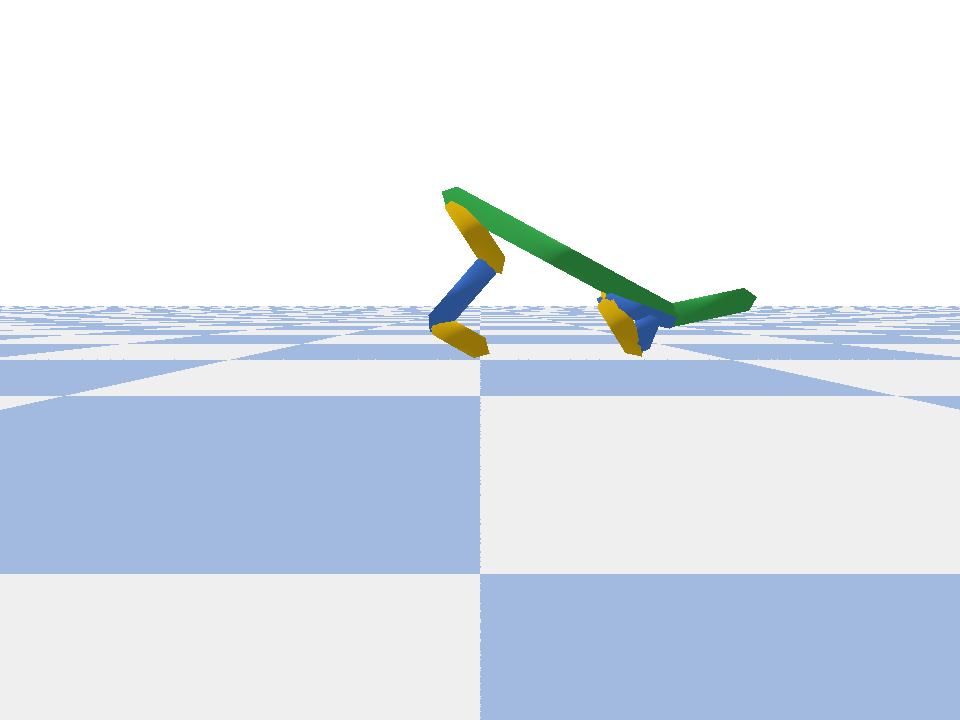
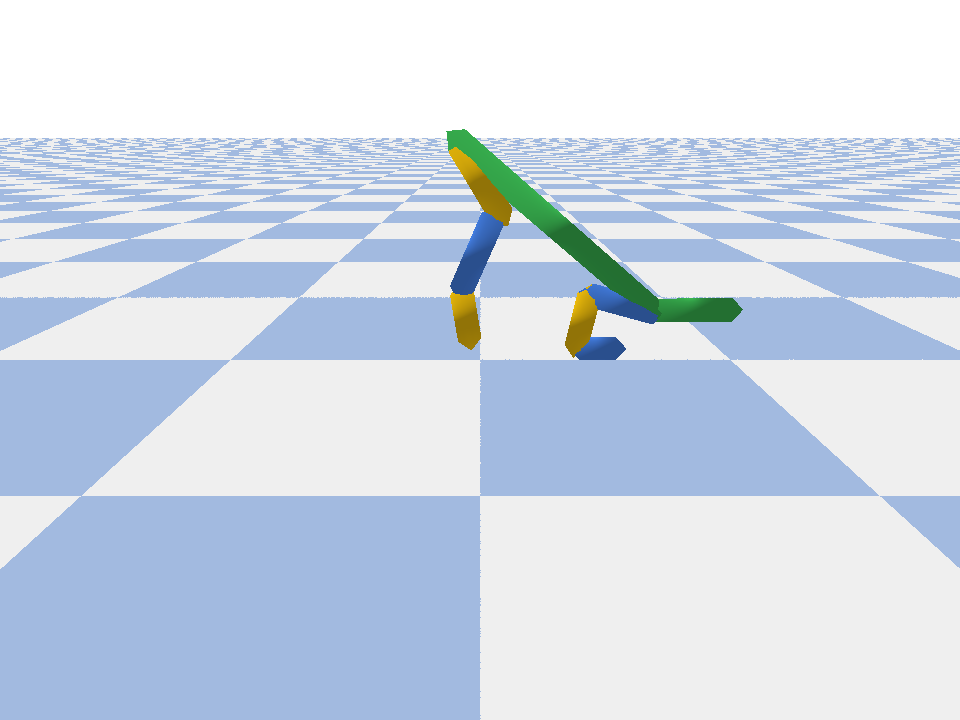
gifs

diff --git a/visualize_state.py b/visualize_state.py
@@ -9,7 +9,7 @@ from mushroom_rl.utils.viewer import ImageViewer
 
 import pygame
 from pygame.locals import *
-
+import imageio
 
 def wait():
     while True:
@@ -30,7 +30,7 @@ def rescale_joint(j, theta_r):
 
 
 def get_image(mdp, scaling, distance, pitch):
-    view_matrix = mdp.env._p.computeViewMatrixFromYawPitchRoll(cameraTargetPosition=[0, 0, 0],
+    view_matrix = mdp.env._p.computeViewMatrixFromYawPitchRoll(cameraTargetPosition=[0, 0, 1.],
                                                                distance=distance,
                                                                yaw=mdp.env._cam_yaw,
                                                                pitch=pitch,
@@ -81,8 +81,10 @@ if __name__ == '__main__':
     #envs = ['HopperBulletEnv-v0', 'Walker2DBulletEnv-v0', 'HalfCheetahBulletEnv-v0', 'AntBulletEnv-v0']
     iteration = 1001
     scaling = 3
-    distance = 2.5
+    # distance = 2.5
+    distance = 3
     pitch = -5
+    # pitch = -20
 
     exp_id = 'final_medium'
     alg_name = 'metricrl'
@@ -90,20 +92,24 @@ if __name__ == '__main__':
     # env_id = 'AntBulletEnv-v0'
     # postfix = 'c10hcovr_expdTruet0.33snone'
     # run_id = 0
+    # cluster_idxs = [5, 4, 6, 2]
 
     # env_id = 'HopperBulletEnv-v0'
     # postfix = 'c10hcovr_expdTruet1.0snone'
     # run_id = 12
+    # cluster_idxs = [0, 9, 4]
 
     env_id = 'HalfCheetahBulletEnv-v0'
-    postfix = 'c20hcovr_expdTruet0.33snone'
-    run_id = 4
+    postfix = 'c10hcovr_expdTruet0.33snone'
+    run_id = 2
+    cluster_idxs = [4, 2, 9, 0]
 
     log_name = os.path.join('Results', exp_id, env_id, alg_name + '_' + postfix)
     print(log_name)
 
     save = True
     save_dir = os.path.join('Results', 'img', env_id)
+    save_dir_gifs = os.path.join(save_dir, 'gifs')
 
     policy_path = os.path.join(log_name, 'net/network-' + str(run_id) + '-' + str(iteration) + '.pth')
     policy_torch = torch.load(policy_path)
@@ -132,12 +138,11 @@ if __name__ == '__main__':
         pygame.image.save(viewer._screen, full_path)
 
     # wait()
-    cluster_idxs = [1, 2, 3, 4, 5, 6]
     # cluster_idxs = [2, 8]
     # cluster_idxs = [8]
     # cluster_idxs = [3]
     # for n, cluster in enumerate(policy_torch.centers.detach().numpy()):
-    for n in cluster_idxs:
+    for clus_order, n in enumerate(cluster_idxs):
         # get Robot object from environment
         cluster = policy_torch.centers[n].detach().numpy()
         obs = env.reset()
@@ -148,26 +153,33 @@ if __name__ == '__main__':
         print(cluster)
 
         set_state(robot, robot_body, cluster)
-
+        obs = robot.calc_state()
         # px = get_image(env, scaling, distance, pitch)
         # viewer.display(px)
-
-        for iterdisp in range(15):
+        gif_length = 5
+        for iterdisp in range(gif_length):
             px = get_image(env, scaling, distance, pitch)
             viewer.display(px)
-            # env.step(policy_torch.means[0].detach().numpy())
             w = policy_torch.get_membership(torch.tensor([obs])).detach().numpy().squeeze()
-            print(w[2], w[8])
+            env.step(policy_torch.means[n].detach().numpy())
+            # print('m3', w[3])
             # if w[n] > .2 or iterdisp < 1:
-            obs, _, _, _ = env.step(policy_torch.get_mean(torch.tensor(obs)).detach().numpy().squeeze())
+            # obs, _, _, _ = env.step(policy_torch.get_mean(torch.tensor(obs)).detach().numpy().squeeze())
             # else:
             #     break
 
 
-        if save:
-            full_path = os.path.join(save_dir, 'cluster-' + str(n) + '.png')
-            os.makedirs(save_dir, exist_ok=True)
-            pygame.image.save(viewer._screen, full_path)
+            if save:
+                full_path = os.path.join(save_dir, 'cluster-' + str(n) + '-' + str(iterdisp) + '.png')
+                os.makedirs(save_dir, exist_ok=True)
+                pygame.image.save(viewer._screen, full_path)
+
+        images = []
+        for iterdisp in range(gif_length):
+            full_path = os.path.join(save_dir, 'cluster-' + str(n) + '-' + str(iterdisp) + '.png')
+            images.append(imageio.imread(full_path))
+        os.makedirs(save_dir_gifs, exist_ok=True)
+        imageio.mimsave(os.path.join(save_dir_gifs, str(clus_order) + '-' + 'cluster-' + str(n) + '.gif'), images)
 
         wrong_state = np.any((cluster - robot.calc_state()) > state_reconstruction_precision)
         print('wrong state? ', wrong_state)

diff --git a/plot_cluster_activation.py b/plot_cluster_activation.py
@@ -29,7 +29,8 @@ class DummyAgent(Agent):
             dist = torch.distributions.MultivariateNormal(mu, scale_tril=chol_sigma)
             a = dist.sample()
 
-            return torch.squeeze(a, dim=0).detach().cpu().numpy()
+            # return torch.squeeze(a, dim=0).detach().cpu().numpy()
+            return torch.squeeze(mu, dim=0).detach().cpu().numpy()
 
     def episode_start(self):
         pass
@@ -189,30 +190,33 @@ if __name__ == '__main__':
     horizon = 1000
     gamma = .99
 
-    env_id = 'AntBulletEnv-v0'
-    log_name = 'Results/final_medium/AntBulletEnv-v0/metricrl_c10hcovr_expdTruet0.33snone'
-    # idxs = [0, 2, 3, 6]
-    idxs = [2, 4, 5, 6]
-    plot_default = False
-    seed = 0
-    ratios = [3.5, 1]
-    n_clusters = 10
+    # env_id = 'AntBulletEnv-v0'
+    # log_name = 'Results/final_medium/AntBulletEnv-v0/metricrl_c10hcovr_expdTruet0.33snone'
+    # n_clusters = 10
+    # # idxs = [k for k in range(n_clusters)]
+    # idxs = [5, 4, 6, 2]
+    # plot_default = True
+    # seed = 0
+    # ratios = [3.5, 1]
 
     # env_id = 'HopperBulletEnv-v0'
     # log_name = 'Results/final_medium/HopperBulletEnv-v0/metricrl_c10hcovr_expdTruet1.0snone'
-    # idxs = [9, 4, 6, 0]
-    # plot_default = False
+    # n_clusters = 10
+    # # idxs = [k for k in range(n_clusters)]
+    # idxs = [0, 9, 4]
+    # plot_default = True
     # seed = 12
     # ratios = [3.5, 1]
-    # n_clusters = 10
 
-    # env_id = 'HalfCheetahBulletEnv-v0'
-    # log_name = 'Results/final_medium/HalfCheetahBulletEnv-v0/metricrl_c20hcovr_expdTruet0.33snone'
-    # idxs = [13, 7, 4, 17]
-    # plot_default = False
-    # seed = 4
-    # ratios = [2, 1]
-    # n_clusters = 20
+    env_id = 'HalfCheetahBulletEnv-v0'
+    log_name = 'Results/final_medium/HalfCheetahBulletEnv-v0/metricrl_c10hcovr_expdTruet0.33snone'
+    idxs = [4, 2, 9, 0]
+    # idxs = [k for k in range(10)]
+    # idxs = [0, 3, 4]
+    plot_default = True
+    seed = 2
+    ratios = [2, 1]
+    n_clusters = 10
 
     max_time_all = 350
     max_time_selected = 350

diff --git a/replay.py b/replay.py
@@ -26,7 +26,8 @@ class DummyAgent(Agent):
             dist = torch.distributions.MultivariateNormal(mu, scale_tril=chol_sigma)
             a = dist.sample()
 
-            return torch.squeeze(a, dim=0).detach().cpu().numpy()
+            # return torch.squeeze(a, dim=0).detach().cpu().numpy()
+            return torch.squeeze(mu, dim=0).detach().cpu().numpy()
 
     def episode_start(self):
         pass
@@ -78,7 +79,7 @@ def load_policy(log_name, iteration, seed):
 
 
 if __name__ == '__main__':
-    dt = 1/10
+    dt = 1/5
     #dt = 0
 
     horizon = 1000
@@ -88,13 +89,13 @@ if __name__ == '__main__':
     # log_name = 'Results/final_medium/AntBulletEnv-v0/metricrl_c10hcovr_expdTruet0.33snone'
     # seed = 0
 
-    # env_id = 'HopperBulletEnv-v0'
-    # log_name = 'Results/final_medium/HopperBulletEnv-v0/metricrl_c10hcovr_expdTruet1.0snone'
-    # seed = 12
+    env_id = 'HopperBulletEnv-v0'
+    log_name = 'Results/final_medium/HopperBulletEnv-v0/metricrl_c10hcovr_expdTruet1.0snone'
+    seed = 12
 
-    env_id = 'HalfCheetahBulletEnv-v0'
-    log_name = 'Results/final_medium/HalfCheetahBulletEnv-v0/metricrl_c10hcovr_expdTruet0.33snone'
-    seed = 4
+    # env_id = 'HalfCheetahBulletEnv-v0'
+    # log_name = 'Results/final_medium/HalfCheetahBulletEnv-v0/metricrl_c10hcovr_expdTruet0.33snone'
+    # seed = 2
 
     policy = load_policy(log_name, iteration=1001, seed=seed)
 

diff --git a/plot_r.py b/plot_r.py
@@ -168,10 +168,13 @@ if __name__ == '__main__':
     exp_folder = os.path.join(res_folder, xp_name)
     baseline_folder = os.path.join(res_folder, 'baselines')
     baseline_mushroom_folder = os.path.join(res_folder, 'baselines')
-    envs = ['HopperBulletEnv-v0', 'Walker2DBulletEnv-v0', 'HalfCheetahBulletEnv-v0', 'AntBulletEnv-v0']
-    temps = [1., 1., .33, .33]
+    # envs = ['HopperBulletEnv-v0', 'Walker2DBulletEnv-v0', 'HalfCheetahBulletEnv-v0', 'AntBulletEnv-v0']
+    envs = ['AntBulletEnv-v0']
+    # temps = [1., 1., .33, .33]
+    temps = [.33]
     nb_runs = 25
-    n_clusterss = [10, 20, 40]
+    # n_clusterss = [10, 20, 40]
+    n_clusterss = [10]
     # clus_sels = ['old_covr_yetnew']
     clus_sels = ['covr_exp']
     clus_dels = [True]
